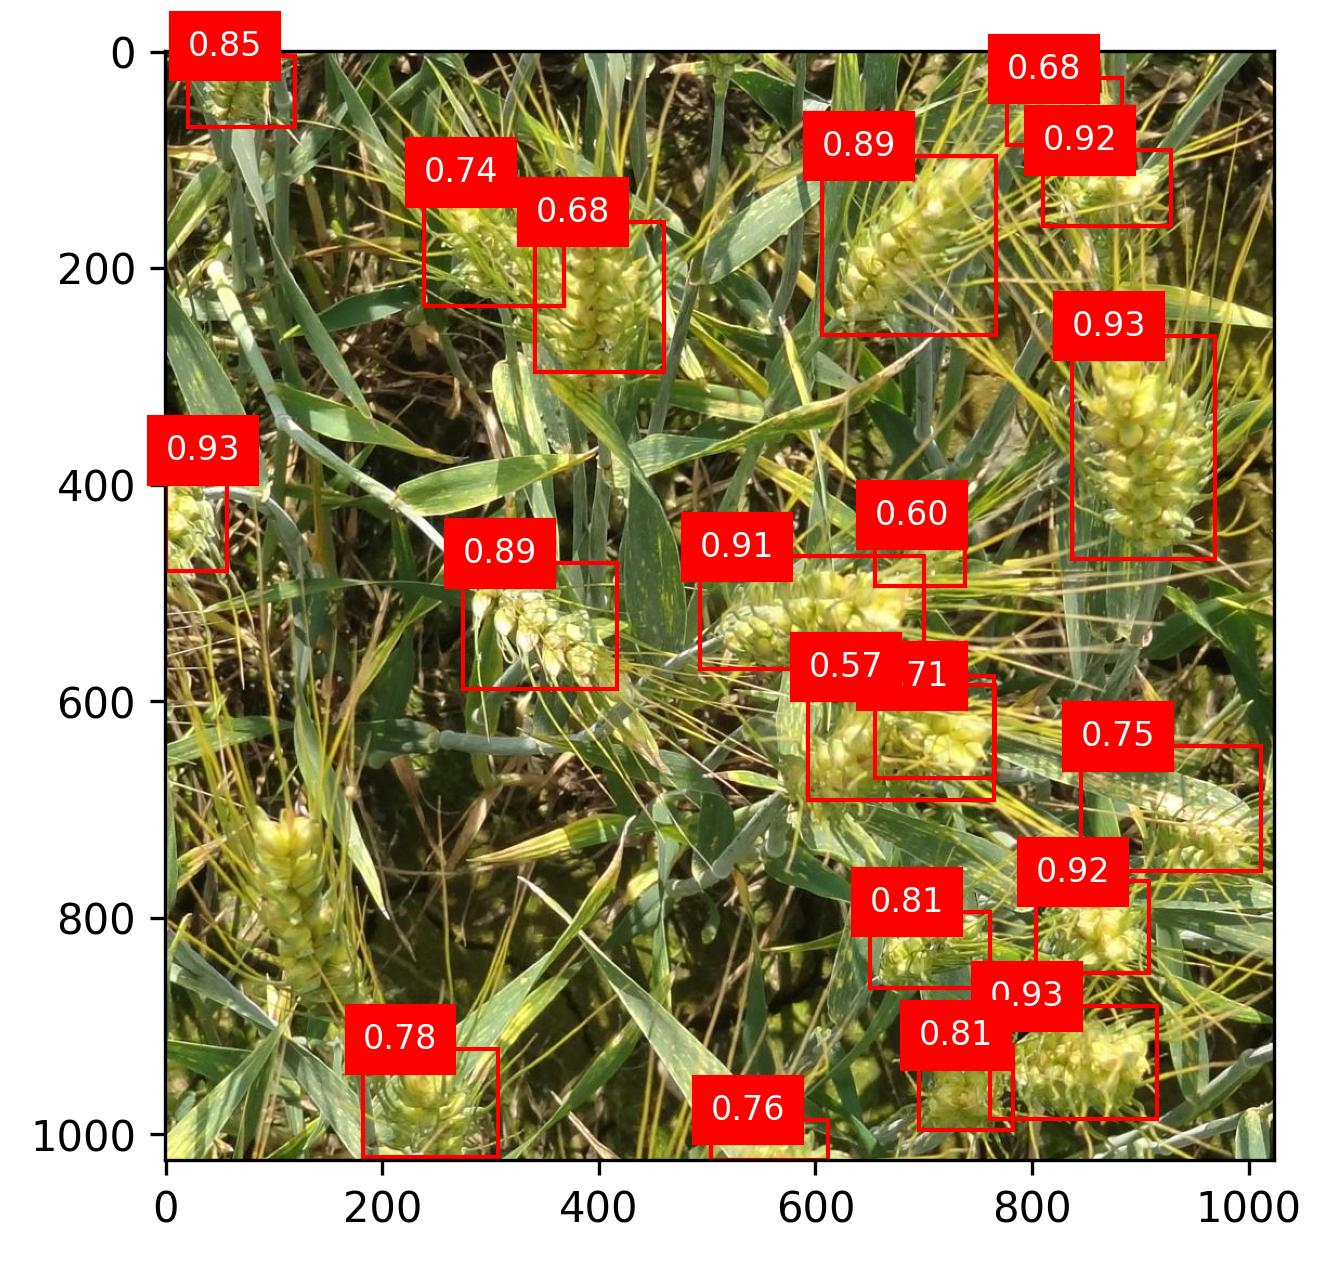
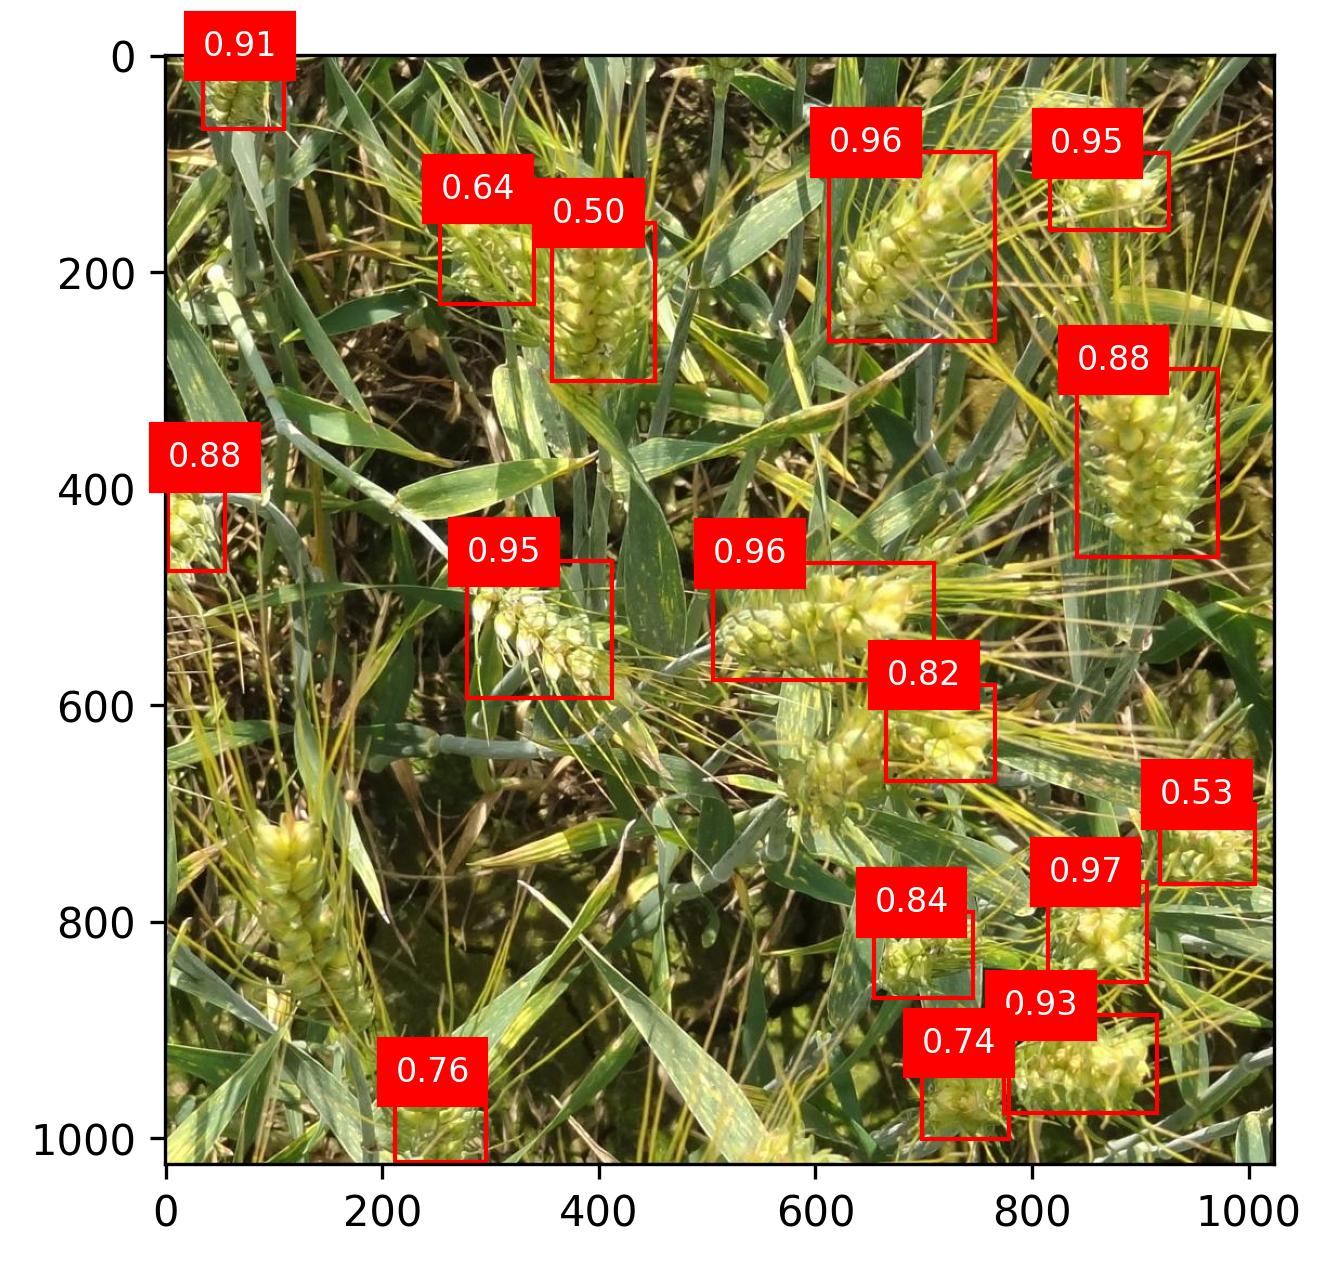
train model

diff --git a/src/main.py b/src/main.py
@@ -13,12 +13,12 @@ import matplotlib.patches as patches
 
 device = torch.device("cuda" if torch.cuda.is_available() else "cpu")
 torch.manual_seed(777)
-train_model = False
+train_model = True
 
 # Hyperparameters
 batch_size = 8
 n_workers = 4
-n_epochs = 1
+n_epochs = 10
 lr = 0.005
 
 def collate_fn(x):
@@ -119,7 +119,7 @@ def train_and_validate():
                 ]
                 metric.update(preds, targets)
         mAP = metric.compute()['map'].item()
-        print(f"Epoch {epoch + 1}/{n_epochs}, Val: {mAP:.4f}")
+        print(f"\nEpoch {epoch + 1}/{n_epochs}, Val: {mAP:.4f}")
 
 # Train & Save model
 if train_model:
